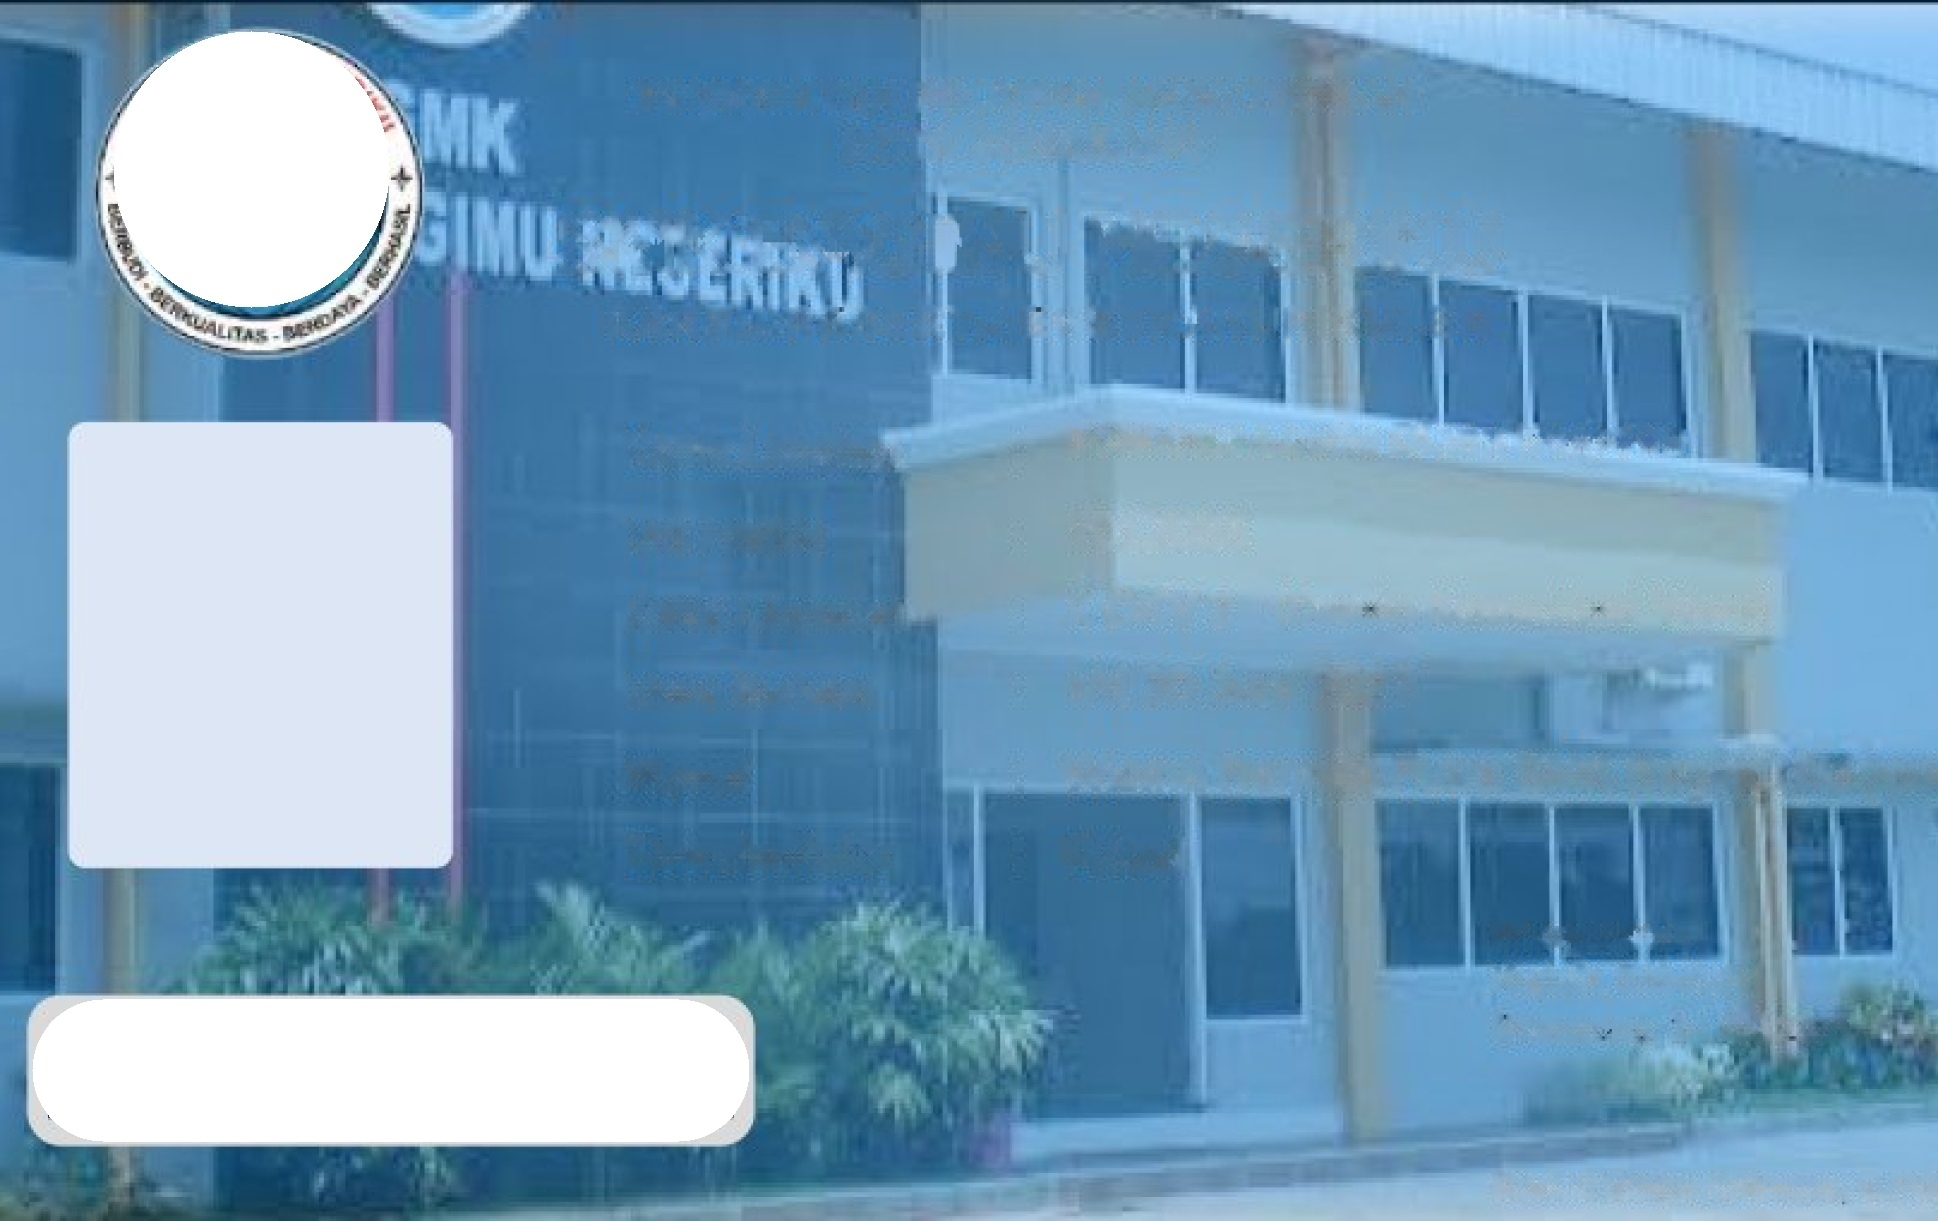
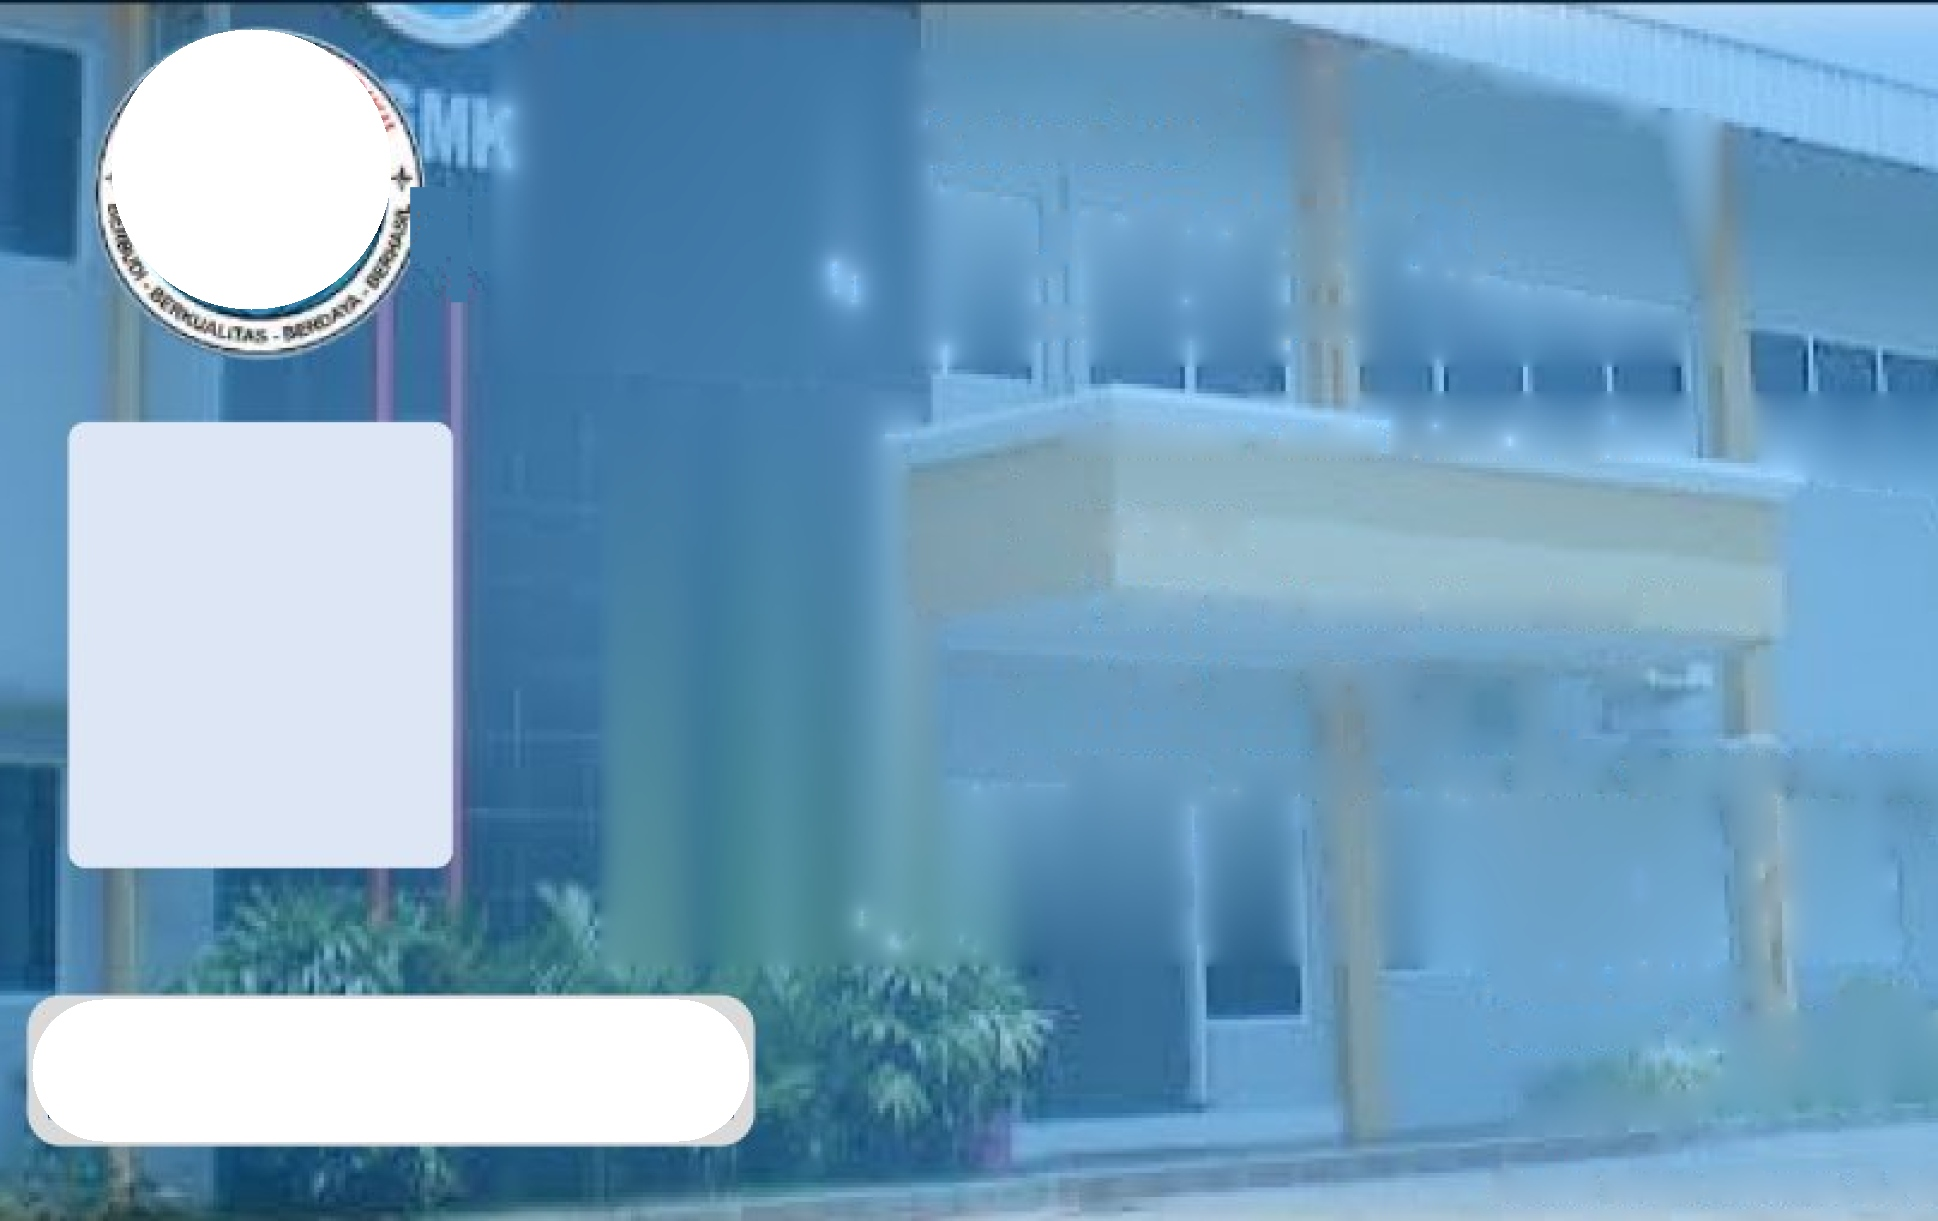
fix(siswa): hapus total huruf 3D pada dinding gedung dan bersihkan seluruh sisa teks dengan Laplace inpainting

diff --git a/resources/views/siswa/kartu-public.blade.php b/resources/views/siswa/kartu-public.blade.php
@@ -39,10 +39,10 @@
         /* 1. Logo Lingkaran Sekolah */
         .card-logo-circle {
             position: absolute;
-            left: 5.3cqw;
-            top: 1.1cqw;
-            width: 15.3cqw;
-            height: 15.3cqw;
+            left: 5.6cqw;
+            top: 1.4cqw;
+            width: 14.7cqw;
+            height: 14.7cqw;
             border-radius: 50%;
             background: #ffffff;
             padding: 0.5cqw;
@@ -618,7 +618,7 @@ function unduhKartuPng() {
         };
         logo.src = '{{ $cardLogoUrl }}';
     };
-    bg.src = '{{ asset("images/kartu-clean-bg.jpg") }}';
+    bg.src = '{{ asset("images/kartu-clean-bg.jpg") }}?v={{ filemtime(public_path("images/kartu-clean-bg.jpg")) }}';
 }
 </script>
 </body>

diff --git a/resources/views/siswa/sukses.blade.php b/resources/views/siswa/sukses.blade.php
@@ -32,10 +32,10 @@
     /* 1. Logo Lingkaran Sekolah */
     .card-logo-circle {
         position: absolute;
-        left: 5.3cqw;
-        top: 1.1cqw;
-        width: 15.3cqw;
-        height: 15.3cqw;
+        left: 5.6cqw;
+        top: 1.4cqw;
+        width: 14.7cqw;
+        height: 14.7cqw;
         border-radius: 50%;
         background: #ffffff;
         padding: 0.5cqw;
@@ -667,7 +667,7 @@ function unduhKartuPng() {
         };
         logo.src = '{{ $cardLogoUrl }}';
     };
-    bg.src = '{{ asset("images/kartu-clean-bg.jpg") }}';
+    bg.src = '{{ asset("images/kartu-clean-bg.jpg") }}?v={{ filemtime(public_path("images/kartu-clean-bg.jpg")) }}';
 }
 </script>
 @endsection
